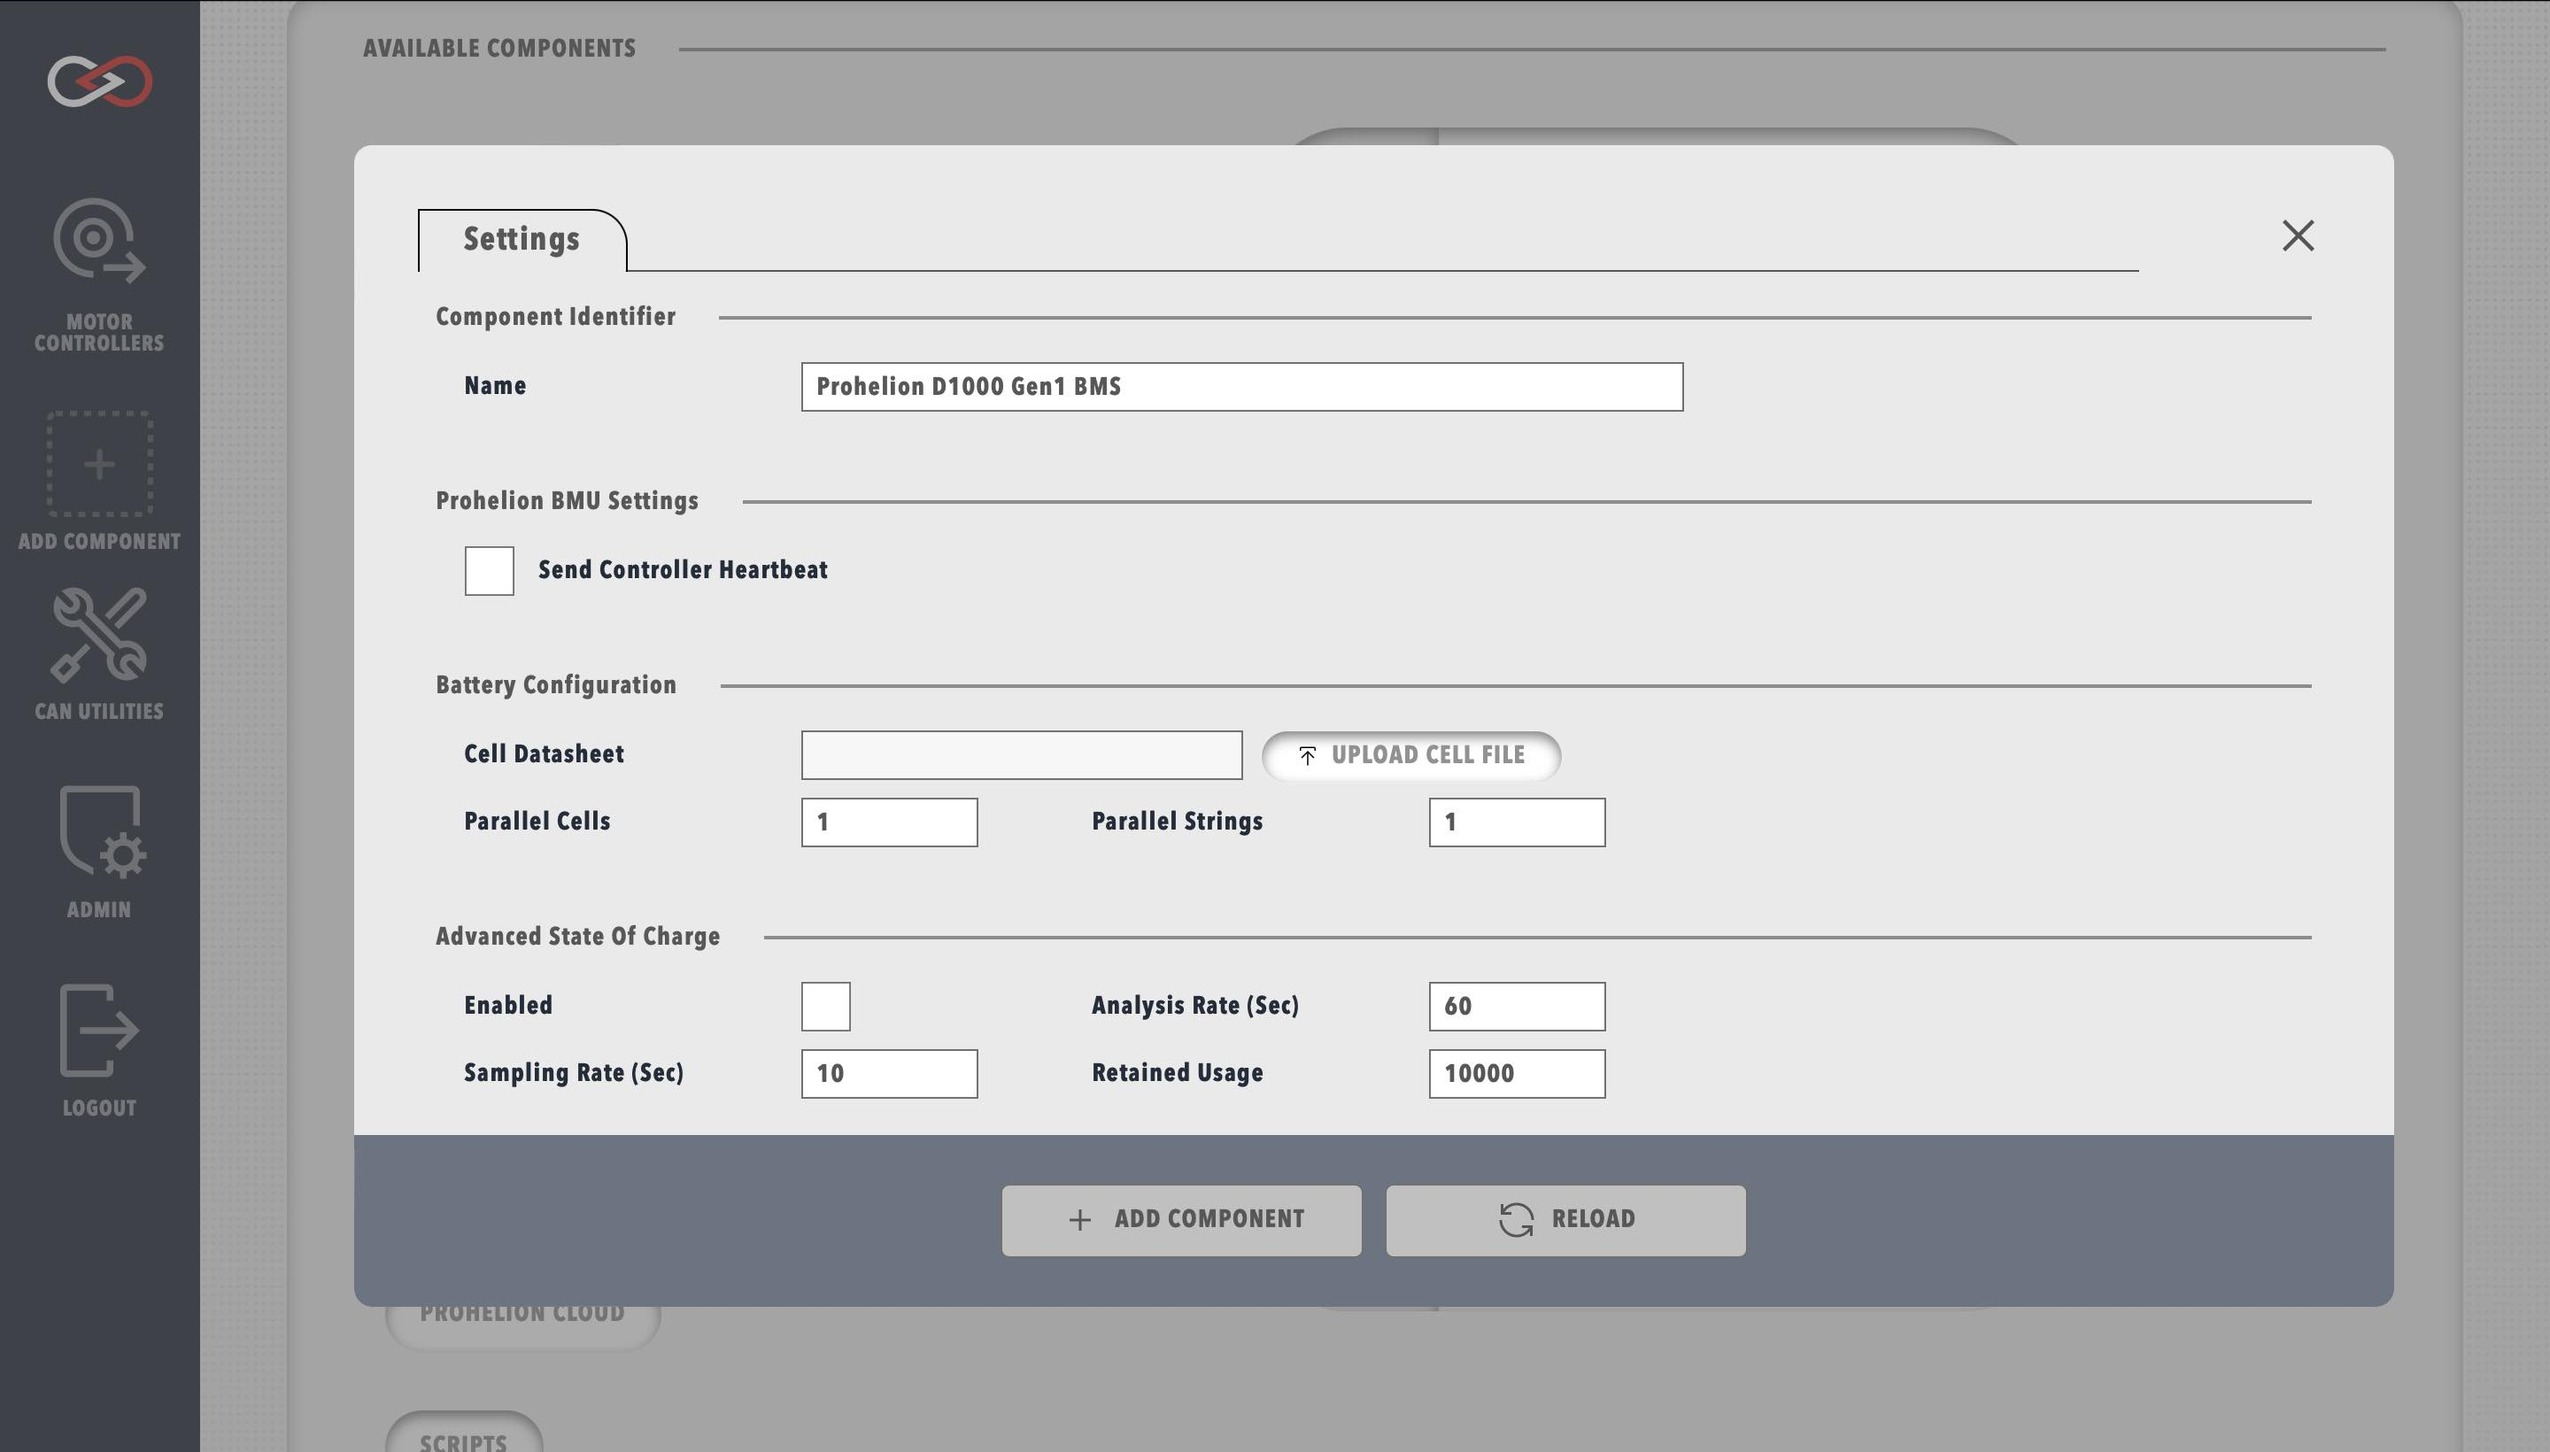
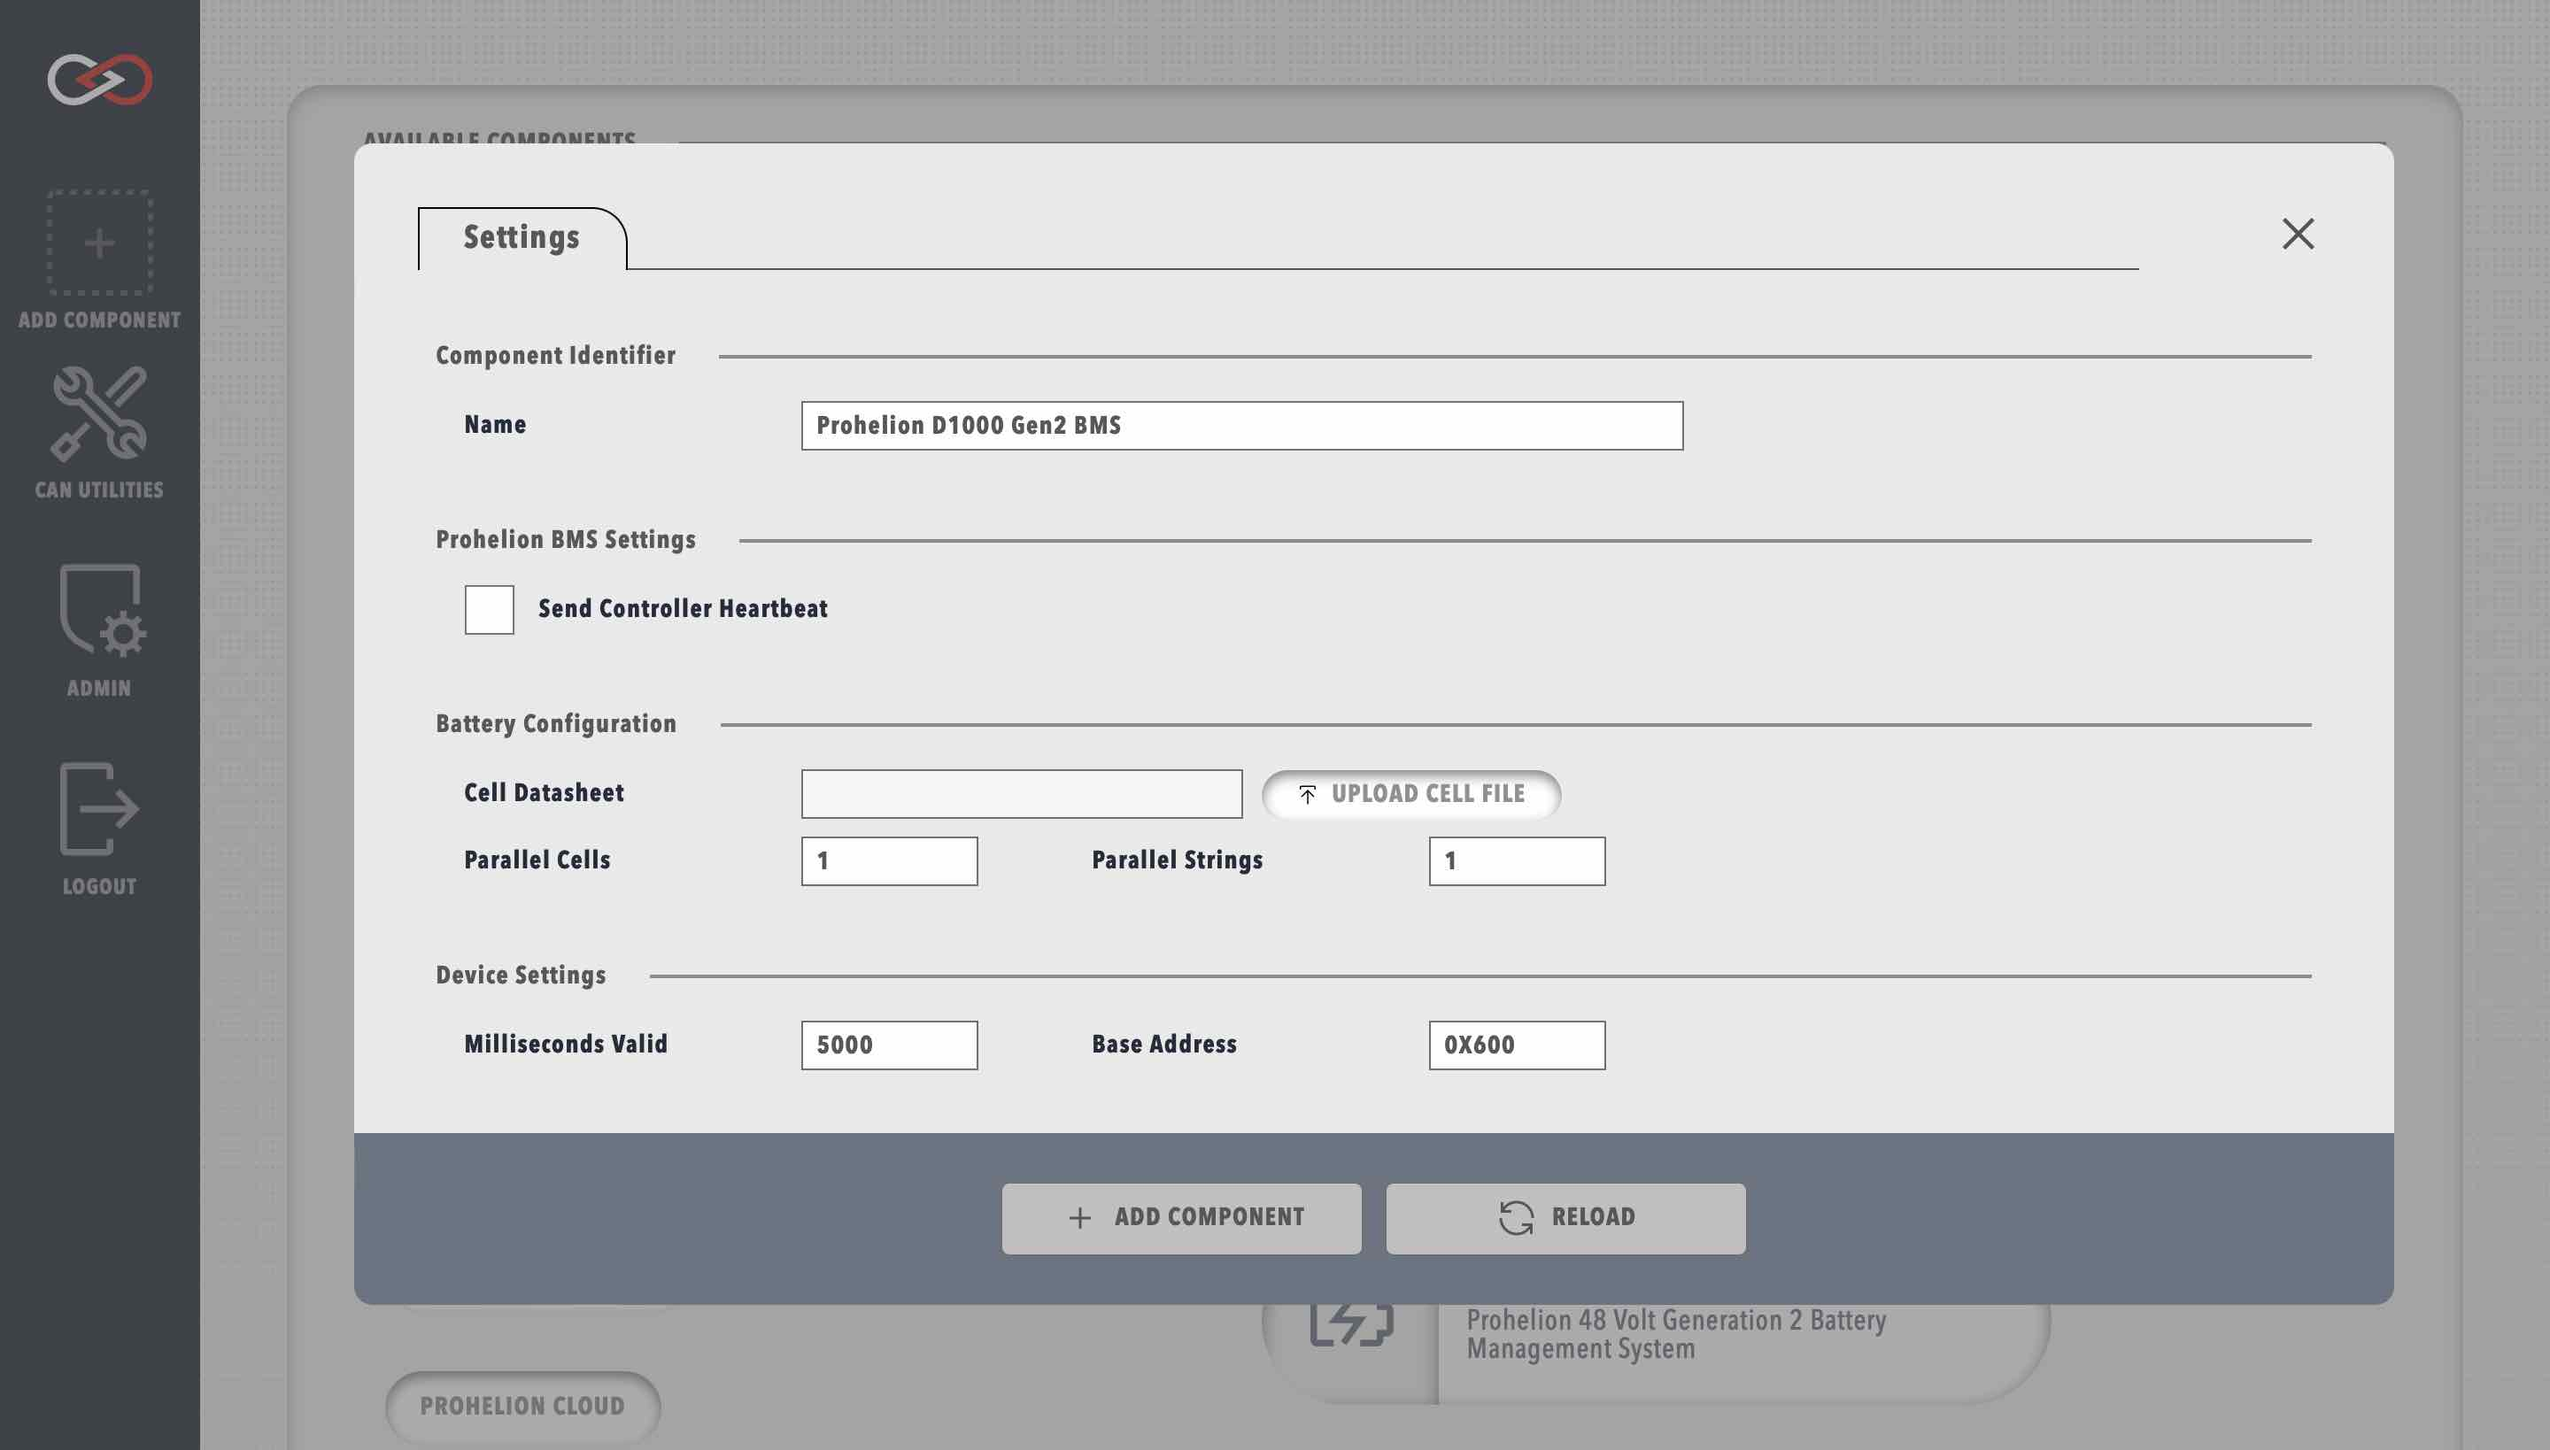
Marked areas for further work

diff --git a/docs/Profinity/index.md b/docs/Profinity/index.md
@@ -4,27 +4,28 @@ title: Profinity Overview
 
 # Prohelion Profinity
 
-Profinity is a modern CAN Bus management platform designed to enable the connection of CAN Bus based solution to modern Cloud, APIs and Big Data technologies.
+Profinity is a modern CAN Bus management platform designed to enable the connection of CAN Bus based solutions to modern Cloud, APIs and Big Data technologies.
 
 [Download Profinity :material-download:](https://github.com/Prohelion/Profinity/releases/latest/download/Profinity.install.msi){ .md-button }
 
 Originally developed by Prohelion to manage our own products it has evolved over time to be multi-platform solution, capable of running on Windows, Linux, MacOS, and Docker, with a core engine, easily extendable via Restful APIs.
 
-Profinity is built around the concept of [profiles](Profiles.md), which is a set of configured devices in your system.  By switching between profiles you can support multiple configurations across different sites of different combinations of technologies.  The configuration of the system is largely driven by the Profinity GUI, but once configured, the solution can run as a service, providing continuous data streams off servers or embedded devices, or run from the cloud.
+Profinity is built around the concept of [Profiles](Profiles.md), which is a set of configured devices in your system.  By switching between Profiles you can support multiple configurations across different sites or different combinations of technologies. The configuration of the system is largely driven by the Profinity GUI, but once configured, the solution can run as a service, providing continuous data streams off servers or embedded devices, or run from the cloud.
 
+<!-- Update this image -->
 <figure markdown>
 ![Profinity](images/profinity_overview.png)
 <figcaption>Profinity</figcaption>
 </figure>
 
-Profinity can connect to [CAN Bridges](CAN_Bus_Adapters.md), which translate CAN Bus traffic from your network to the Profinity solution, you can send and receive and view CAN Bus messages either raw or using DBC, log messages and replay them.  You can also use Profinity to share CAN Bus data from your system to your team, either in near real time via a [Prohelion Cloud Connect](Prohelion_Cloud_Connect.md) data stream, or via the logs to cloud data logging platforms. 
+Profinity can connect to [CAN Bridges](CAN_Bus_Adapters.md), which translate CAN Bus traffic from your network to the Profinity solution. You can send and receive and view CAN Bus messages either raw or using DBC, log messages and replay them. You can also use Profinity to share CAN Bus data from your system to your team <!--, either in near real time via a [Prohelion Cloud Connect](Prohelion_Cloud_Connect.md) data stream, or -->via the logs to cloud data logging platforms. 
 
 It provides specialised tools for managing [Prohelion Batteries](Prohelion_Batteries.md) and chargers, MPPT systems from [Elmar Solar](Elmar_Solar_MPPT.md) and [WaveSculptors](WaveSculptor.md) as well as any device that can be defined by a CAN DBC file.  
 
-### Profinity Server (Rest APIs, Web and Docker)
+### Profinity Server (Rest APIs, Web, and Docker)
 
 As of Profinity 1.11, Prohelion has migrated to a modern container and API centric architecture.  You will find information on our [Restful APIs and Swagger Support](Profinity_Rest_APIs.md) in the documentation as well as our out of the box Cloud connectivity for [InfluxDB and Prometheus](InfluxDB_Prometheus_Integration.md) to support cloud based Big Data capture and analytics of CAN Bus based solutions.  
 
-In addition we now support for Profinity running as a Server on [Windows, Docker, Linux, and MacOS](Profinity_Server.md).
+In addition we now support for Profinity running as a Server on [Windows, Linux, MacOS, and Docker](Profinity_Server.md).
 
 If you require support or assistance, please [Contact Us](https://www.prohelion.com/contact-us/) via the Prohelion Website or you can log bugs, requests for help, or requests for improvement on our [Support Portal](https://prohelion.atlassian.net/servicedesk/customer/portals).

diff --git a/docs/Profinity/Getting_Started.md b/docs/Profinity/Getting_Started.md
@@ -26,6 +26,8 @@ After logging in, you will arrive at the Profinity V2 homepage.
 
 The Profinity V2 window is split into two main sections; the sidebar and the main window. By default, the sidebar contains four tabs named `ADD COMPONENT`, `CAN UTILITIES`, `ADMIN`, and `LOGOUT`. More options will become available as you construct your system inside Profinity.
 
+<!-- More here -->
+
 ## Creating a user
 
 Once logged in, it is recommended to create a new user to suit your use case. To create a new user, select the `ADMIN` tab, `Users`, then `+ ADD USER`. Here you are able to define a new user and their associated login details.
@@ -54,17 +56,17 @@ More information can be found in the [Profinity Profile Packs](Profiles.md) sect
 
 ## Adding new Components to your Profile
 
-components can be added to your profile by selecting the `ADD COMPONENT` tab from the sidebar. A page with all of the currently supported components is presented, including hardware devices, data loggers, custom scripts, etc., allowing you to select the component that you wish to add. The page also includes filter options to help locate the correct component.
+Components can be added to your profile by selecting the `ADD COMPONENT` tab from the sidebar. A page with all of the currently supported components is presented, including hardware devices, data loggers, custom scripts, etc., allowing you to select the component that you wish to add. The page also includes filter options to help locate the correct component.
 
 <figure markdown>
-![Add a new Component to the Profile](images/add_component.jpg)
+![Add a new component to the Profile](images/add_component.jpg)
 <figcaption>Add a new component to the Profile</figcaption>
 </figure>
 
-Upon selecting an component, you will be prompted to fill in the necessary details to finish setting up your component. The information required will vary greatly by component and can be modified later by editing the component properties. More information about specific component properties can be found in the dedicated component sections.
+Upon selecting an component, you will be prompted to fill in the necessary details to finish setting up your component. The information required will vary greatly by component and can be modified later by editing the component properties. More information about specific component properties and how to correctly configure each component can be found in the dedicated component sections.
 
 <figure markdown>
-![Adjust component Properties](images/add_component_properties.jpg)
+![Adjust component properties](images/add_component_properties.jpg)
 <figcaption>Example of defining component properties</figcaption>
 </figure>
 
@@ -79,6 +81,12 @@ Once you have added the component to your profile, an icon will appear in the si
 | `Yellow` | The device is available, but is either not sending data or is a warning state |
 | `Red`    | The device is in an error state                                               |
 | `Grey`   | The device is not available, connected or not visible on the network          |
+
+## Reading Data
+
+Once all of your components have been configured, you are ready to start receiving and reading data.
+
+<!-- More here, powering on system, different dashboards, etc. -->
 
 ## Accessing System Logs
 

diff --git a/docs/Profinity/Profiles.md b/docs/Profinity/Profiles.md
@@ -35,15 +35,15 @@ From this menu it is also possible to change the active Profile using the radio 
 
 Profinity ships with an example Profile called the PET Profile (Prohelion / Elmar / Tritium) which contains all the necessary configuration to support a vehicle based on Prohelion, Elmar, and Tritium technologies.  If you wish to use this Profile as a basis for your own work we would suggest copying it to a new file name as the file is overwritten each time you install a new version of Profinity. <!-- Check this -->
 
-## Profile Files
+## Profile Pack Files
 
-In Profinity the profiles themselves are stored by default as files in the directory
+In Profinity the Profile Packs themselves are stored by default as files in the directory
 
-`/Documents/Prohelion/Profinity/Profiles`
+`/Documents/Prohelion/Profinity/Profiles` <!-- Should this be /Documents?-->
 
-While it is possible to edit the profile file directly in a text editor we do not recommend you do so. 
+While it is possible to edit the Profile Pack file directly in a text editor we do not recommend you do so. 
 
-Storing the file in this way makes it easy to share a Profile between machines. If it makes sense in your environment, profiles can be stored on network drives or other shares such as Google Drive or Dropbox. <!--, you can also share a read only version of your Profile via [Prohelion Cloud Connect](Prohelion_Cloud_Connect.md)-->
+Storing the file in this way makes it easy to share a Profile Packs between machines. If it makes sense in your environment, Profile Packs can be stored on network drives or other shares such as Google Drive or Dropbox. <!--, you can also share a read only version of your Profile via [Prohelion Cloud Connect](Prohelion_Cloud_Connect.md)-->
 
 <!-- ## Component Properties
 
